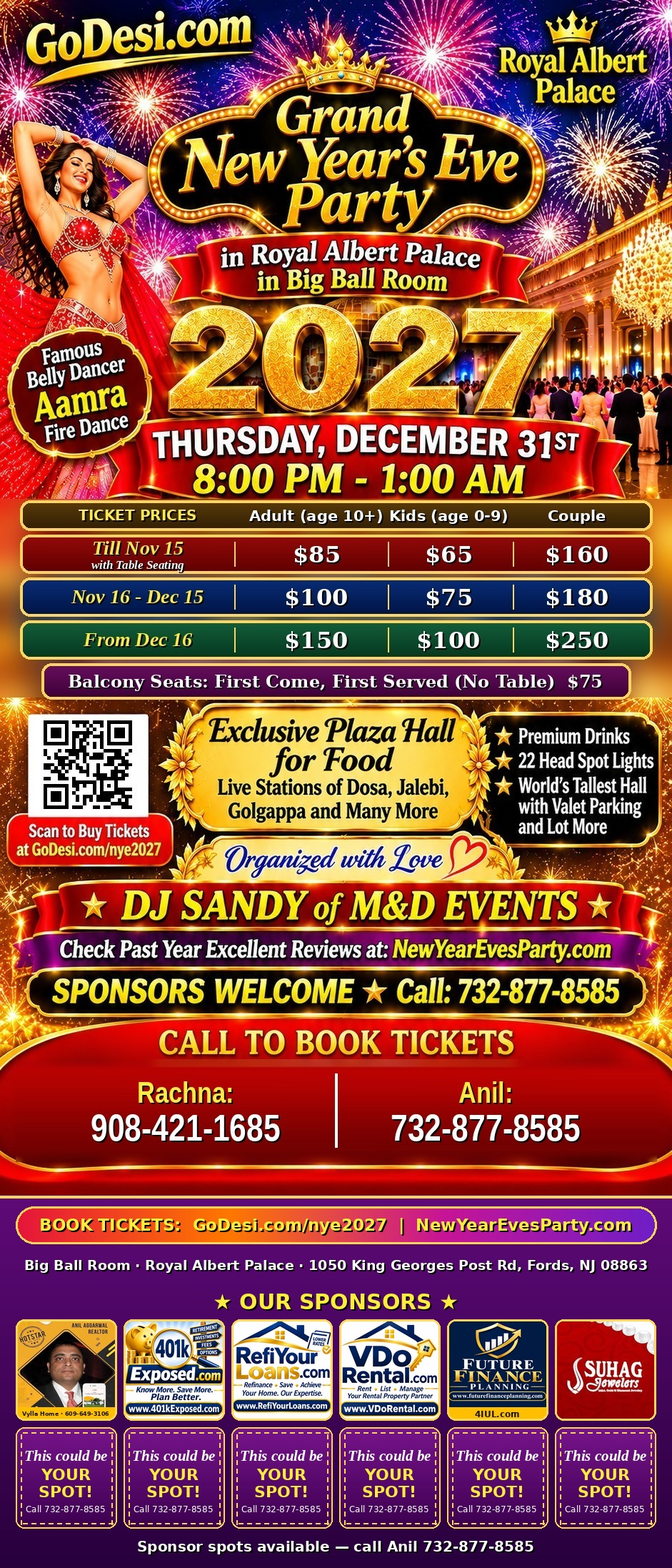
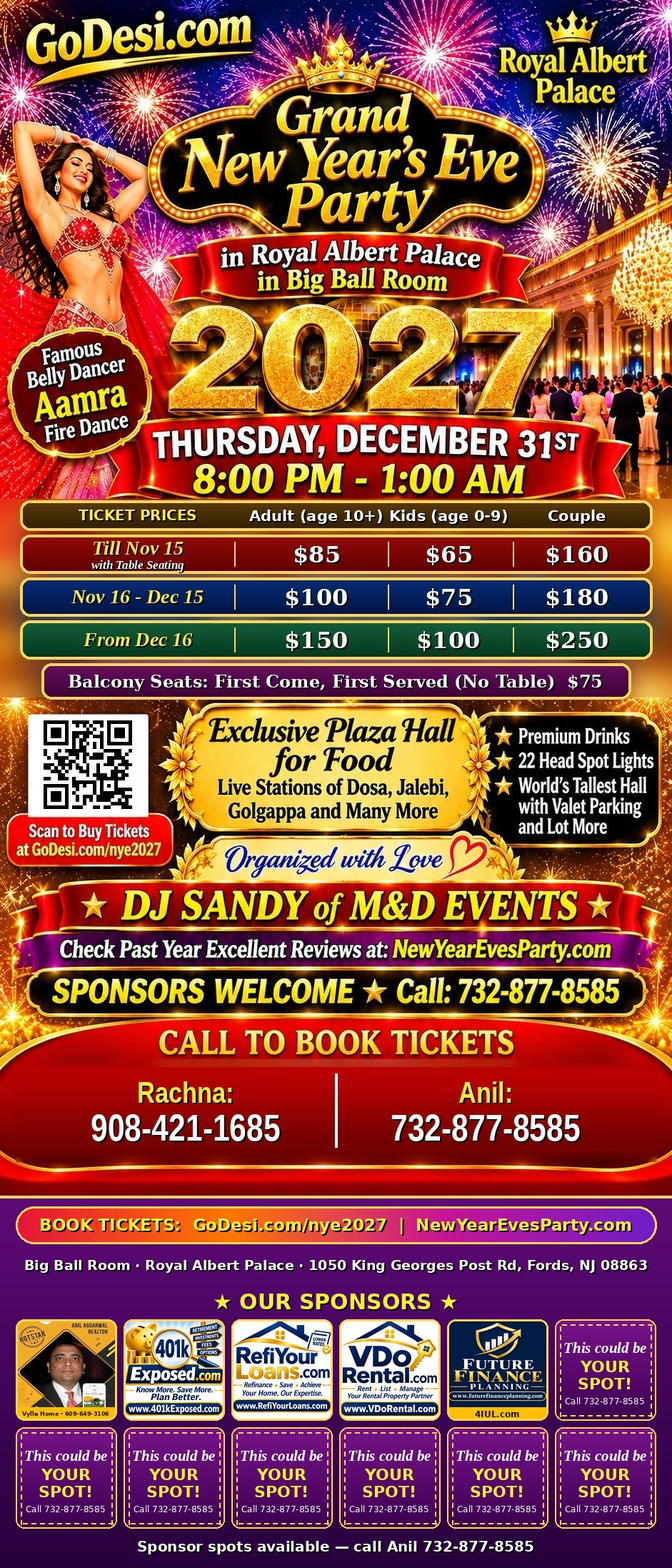
NYE 2027: remove Suhag Jewelers from the sponsor strip on both flyers and from the event script

Changed region(s): [[0.8013, 0.8368, 0.9862, 0.9298]]

diff --git a/scripts/update-nye-2027-edison.ts b/scripts/update-nye-2027-edison.ts
@@ -57,8 +57,8 @@ const BANNER_YEAR = "320×100 banner on GoDesi.com for 1 year";
  */
 const HALL_TICKETS = 350;
 
-/** GoDesi business pages listed as sponsors of the party (already on the flyer). */
-const SPONSOR_BUSINESSES = ["suhag-jewelers-iselin"];
+/** GoDesi business pages listed as sponsors of the party. */
+const SPONSOR_BUSINESSES: string[] = [];
 
 const TIERS: TierSpec[] = [
   { name: "Adult (10+) — Early bird", note: "Table seating included", price: 85, seats: 120, salesEnd: EARLY_END },
